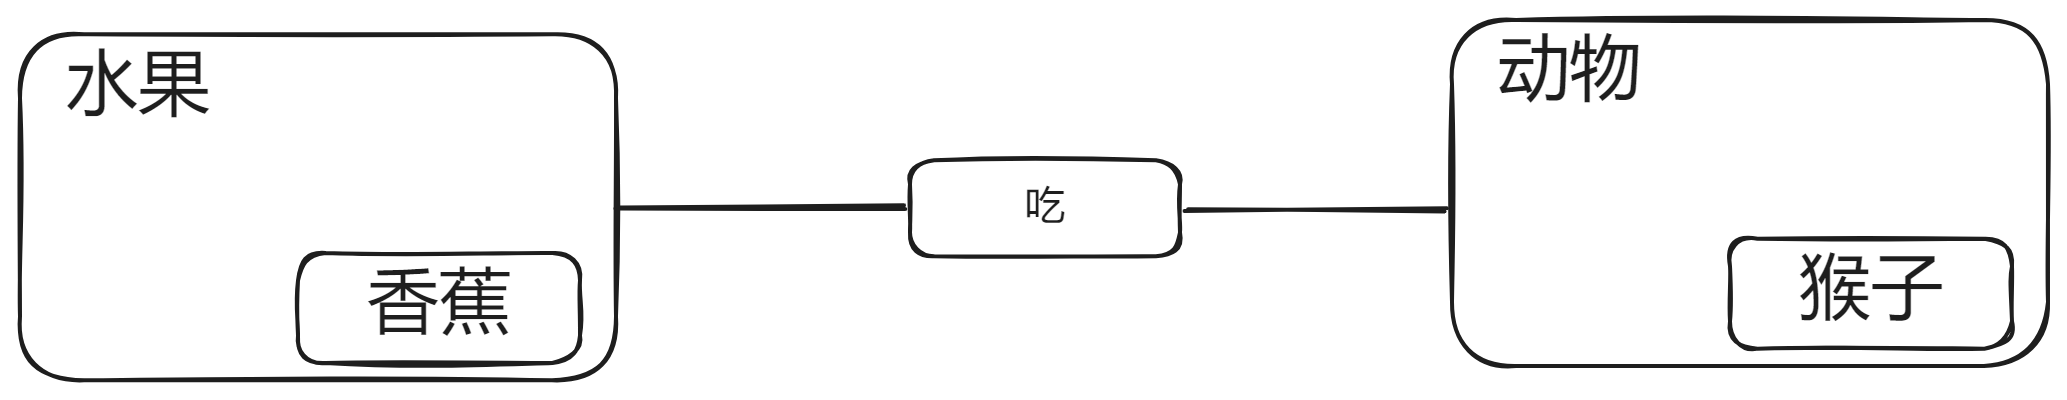
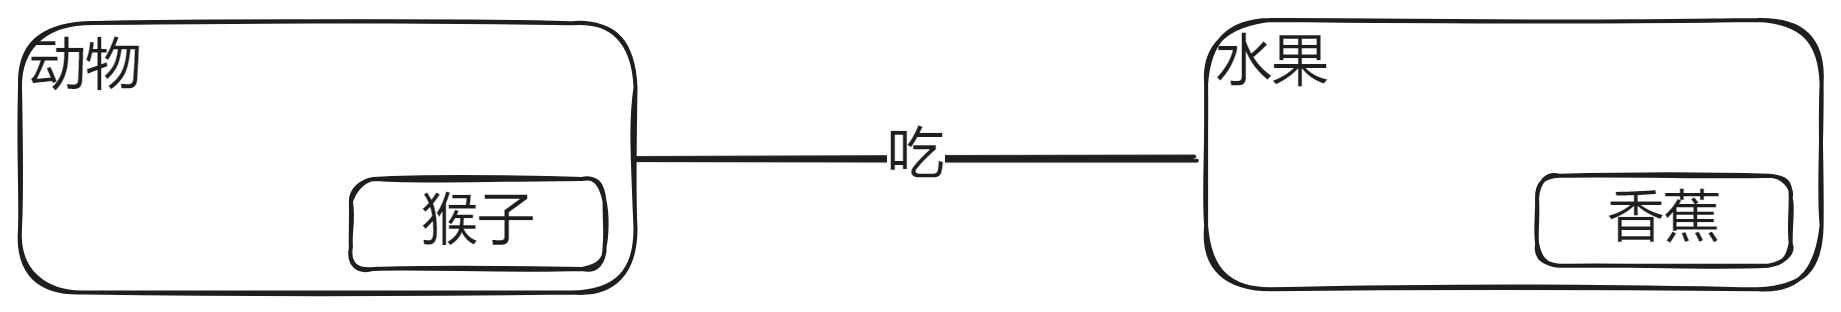
update

Changed region(s): [[0.0, 0.0288, 1.0, 0.9808], [0.4335, 0.5769, 0.5883, 0.6635], [0.5573, 0.4038, 0.5883, 0.4615]]

diff --git a/docs/software/ultimate/图形化.md b/docs/software/ultimate/图形化.md
@@ -1,13 +1,15 @@
 # 图形化
 
-- 本篇有实际意义, 将教你如何正确绘制事物的`联系图`
+- 本篇有实际意义, 将教你如何正确绘制事物的`关系图`
 - 实际上就是`韦恩图`, 连线是属于`关系`的
 
 ## 最小单位
 
+绝对的：
+
 <img src="../images/min.png" width="900">
 
-更进一步：
+相对的：
 
 <img src="../images/min2.png" width="900">
 
@@ -15,7 +17,7 @@
 > `关系`是一个比`事物`更具体的`事物`
 
 > [!TIP]
-> 连线是属于`关系`的, 连线可以不画出来
+> `关系`是交叉概念, 但我们要避免交叉来保证关系图的全面
 
 ## 事物是可以包含的
 

diff --git a/docs/start.md b/docs/start.md
@@ -5,7 +5,7 @@
 
 - [逻辑与抽象](./software/ultimate/逻辑与抽象.md)
 - [数学(符号化)](./software/ultimate/数学(符号化).md)
-- [联系(图形化)](./software/ultimate/图形化.md)
+- [事物(图形化)](./software/ultimate/图形化.md)
 
 ### 🚀 底层原理
 
